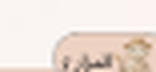
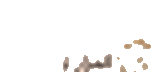
Update plant stamp image and refactor main.dart initialization logic
Replit-Commit-Author: Agent

diff --git a/artifacts/athmar/app/lib/main.dart b/artifacts/athmar/app/lib/main.dart
@@ -920,7 +920,7 @@ class _AthmarSavingsSetupScreenState extends State<AthmarSavingsSetupScreen> {
                         ],
                       ),
                     ),
-                    const SizedBox(height: 10),
+                    const SizedBox(height: 48),
                     GestureDetector(
                       onTap: () =>
                           Navigator.of(context).pushNamed('/athmar/advisor'),
@@ -2206,7 +2206,7 @@ class _TrackerScreenState extends State<TrackerScreen>
                     const Spacer(flex: 2),
                     // Plant with sway + celebration sparkles
                     SizedBox(
-                      height: 170,
+                      height: 190,
                       child: Stack(
                         alignment: Alignment.bottomCenter,
                         children: [
@@ -2230,8 +2230,8 @@ class _TrackerScreenState extends State<TrackerScreen>
                               child: RawAssetImage(
                                 'assets/images/${stage.$1}.png',
                                 key: ValueKey(stage.$1),
-                                width: stage.$3,
-                                height: stage.$4,
+                                width: stage.$3 * 1.2,
+                                height: stage.$4 * 1.2,
                               ),
                             ),
                           ),
@@ -2274,7 +2274,7 @@ class _TrackerScreenState extends State<TrackerScreen>
                             fontSize: 12,
                             fontWeight: FontWeight.w600),
                       ),
-                    const Spacer(flex: 3),
+                    const Spacer(flex: 2),
                     // Add amount card
                     Container(
                       decoration: BoxDecoration(
@@ -2411,7 +2411,7 @@ class _TrackerScreenState extends State<TrackerScreen>
                         ),
                       ),
                     ),
-                    const SizedBox(height: 14),
+                    const SizedBox(height: 28),
                   ],
                 ),
                 ),
@@ -2457,22 +2457,22 @@ class _StreakBadgeState extends State<_StreakBadge>
           color: kBlushCard,
           borderRadius: BorderRadius.circular(14),
         ),
-        padding: const EdgeInsets.symmetric(horizontal: 10, vertical: 8),
+        padding: const EdgeInsets.symmetric(horizontal: 13, vertical: 10),
         child: Column(
           mainAxisSize: MainAxisSize.min,
           children: [
-            const Icon(Icons.timer_outlined, size: 16, color: kNavy),
+            const Text('🔥', style: TextStyle(fontSize: 18)),
             const SizedBox(height: 3),
-            Text('عدد الأيام: ${widget.days} يوم',
+            Text('عداد الالتزام: ${widget.days} يوم',
                 style: const TextStyle(
                     color: kNavy,
-                    fontSize: 8.5,
+                    fontSize: 10,
                     fontWeight: FontWeight.w800)),
             const SizedBox(height: 2),
             Text('التزام متواصل',
                 style: TextStyle(
                     color: kNavy.withValues(alpha: 0.55),
-                    fontSize: 7.5,
+                    fontSize: 8.5,
                     fontWeight: FontWeight.w600)),
           ],
         ),